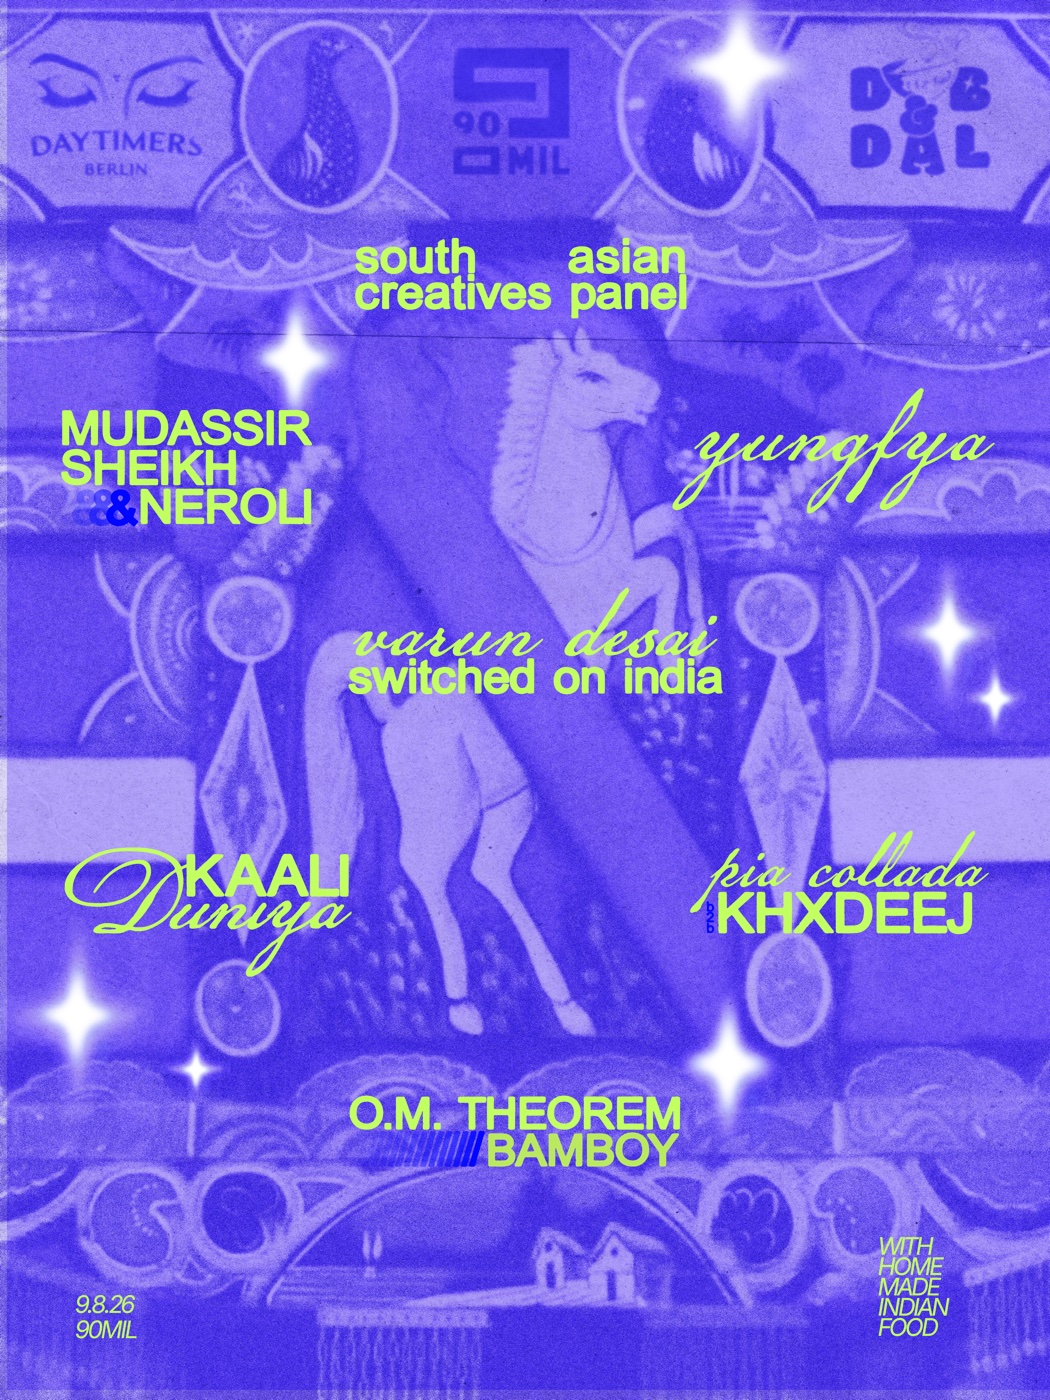
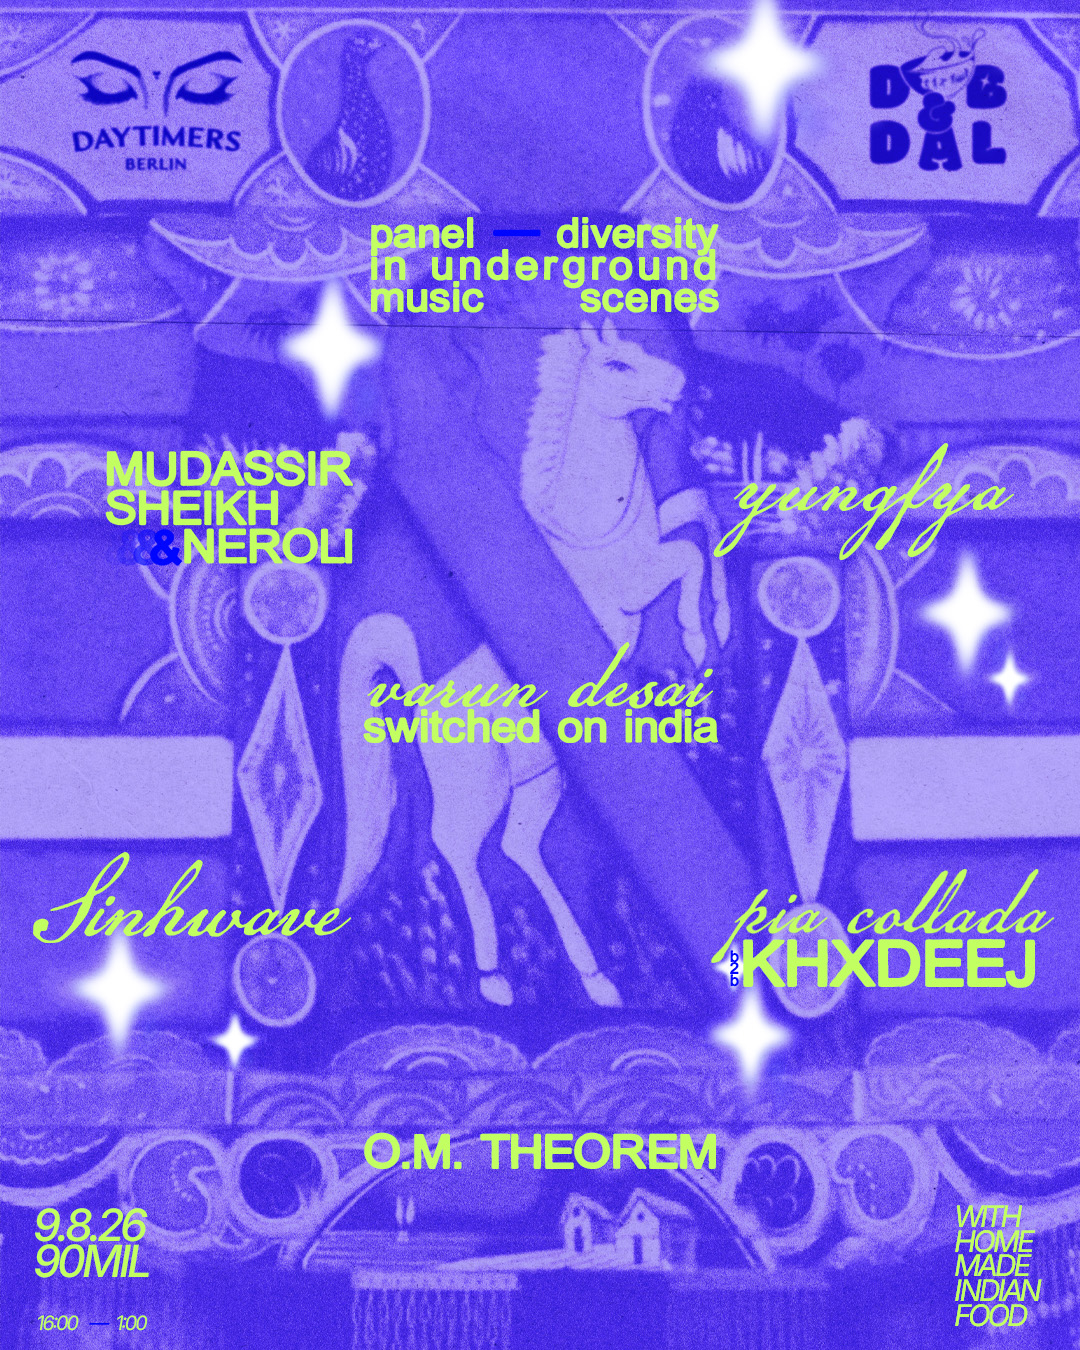
Update time and poster for daytimers

diff --git a/upcoming.html b/upcoming.html
@@ -241,16 +241,19 @@
       data-date="9th August 2026"
       data-title="Dub&Dal meets DayTimers"
       data-venue="90mil, Berlin"
-      data-tags="90mil,Performance-Lecture,Live,South Asian"
+      data-tags="Performance-Lecture,Live,South Asian, 16-01h, 15-20€"
       data-img="./images/Daytimers.jpg"
       data-text="Celebrating roots and community in collaboration with DayTimers Berlin who share the same mission as ours. This one's for our South Asian roots, we're opening the floor to performers and artists from the diaspora to the motherland, creating a space for everyone to feel at home.
       Proudly Presenting:
-      * Switched on India, performance-lecture with Varun Desai from Kolkatta
+      * Switched on India by Varun Desai from Kolkatta (performance-lecture, live)
       * Khxdeej b2b Pia Collada (Goa meets Berlin)
       * sinhwave (from Hyderabad)
       * yungfya
-      * Mudassir Sheikh & Neroli
-      * O.M. Theorem - Dub&Dal resident
+      * Mudassir Sheikh & Neroli (live)
+      * O.M. Theorem (live) - Dub&Dal resident
+      * Panel Talk - Diversity in underground music scenes
+      16:00 to 01:00
+      Sliding scale donations 15-20€
       ">
       <img class="pcard-img" src="./images/Daytimers.jpg" alt="90mil DT poster" loading="lazy">
       <div class="pcard-ov">
